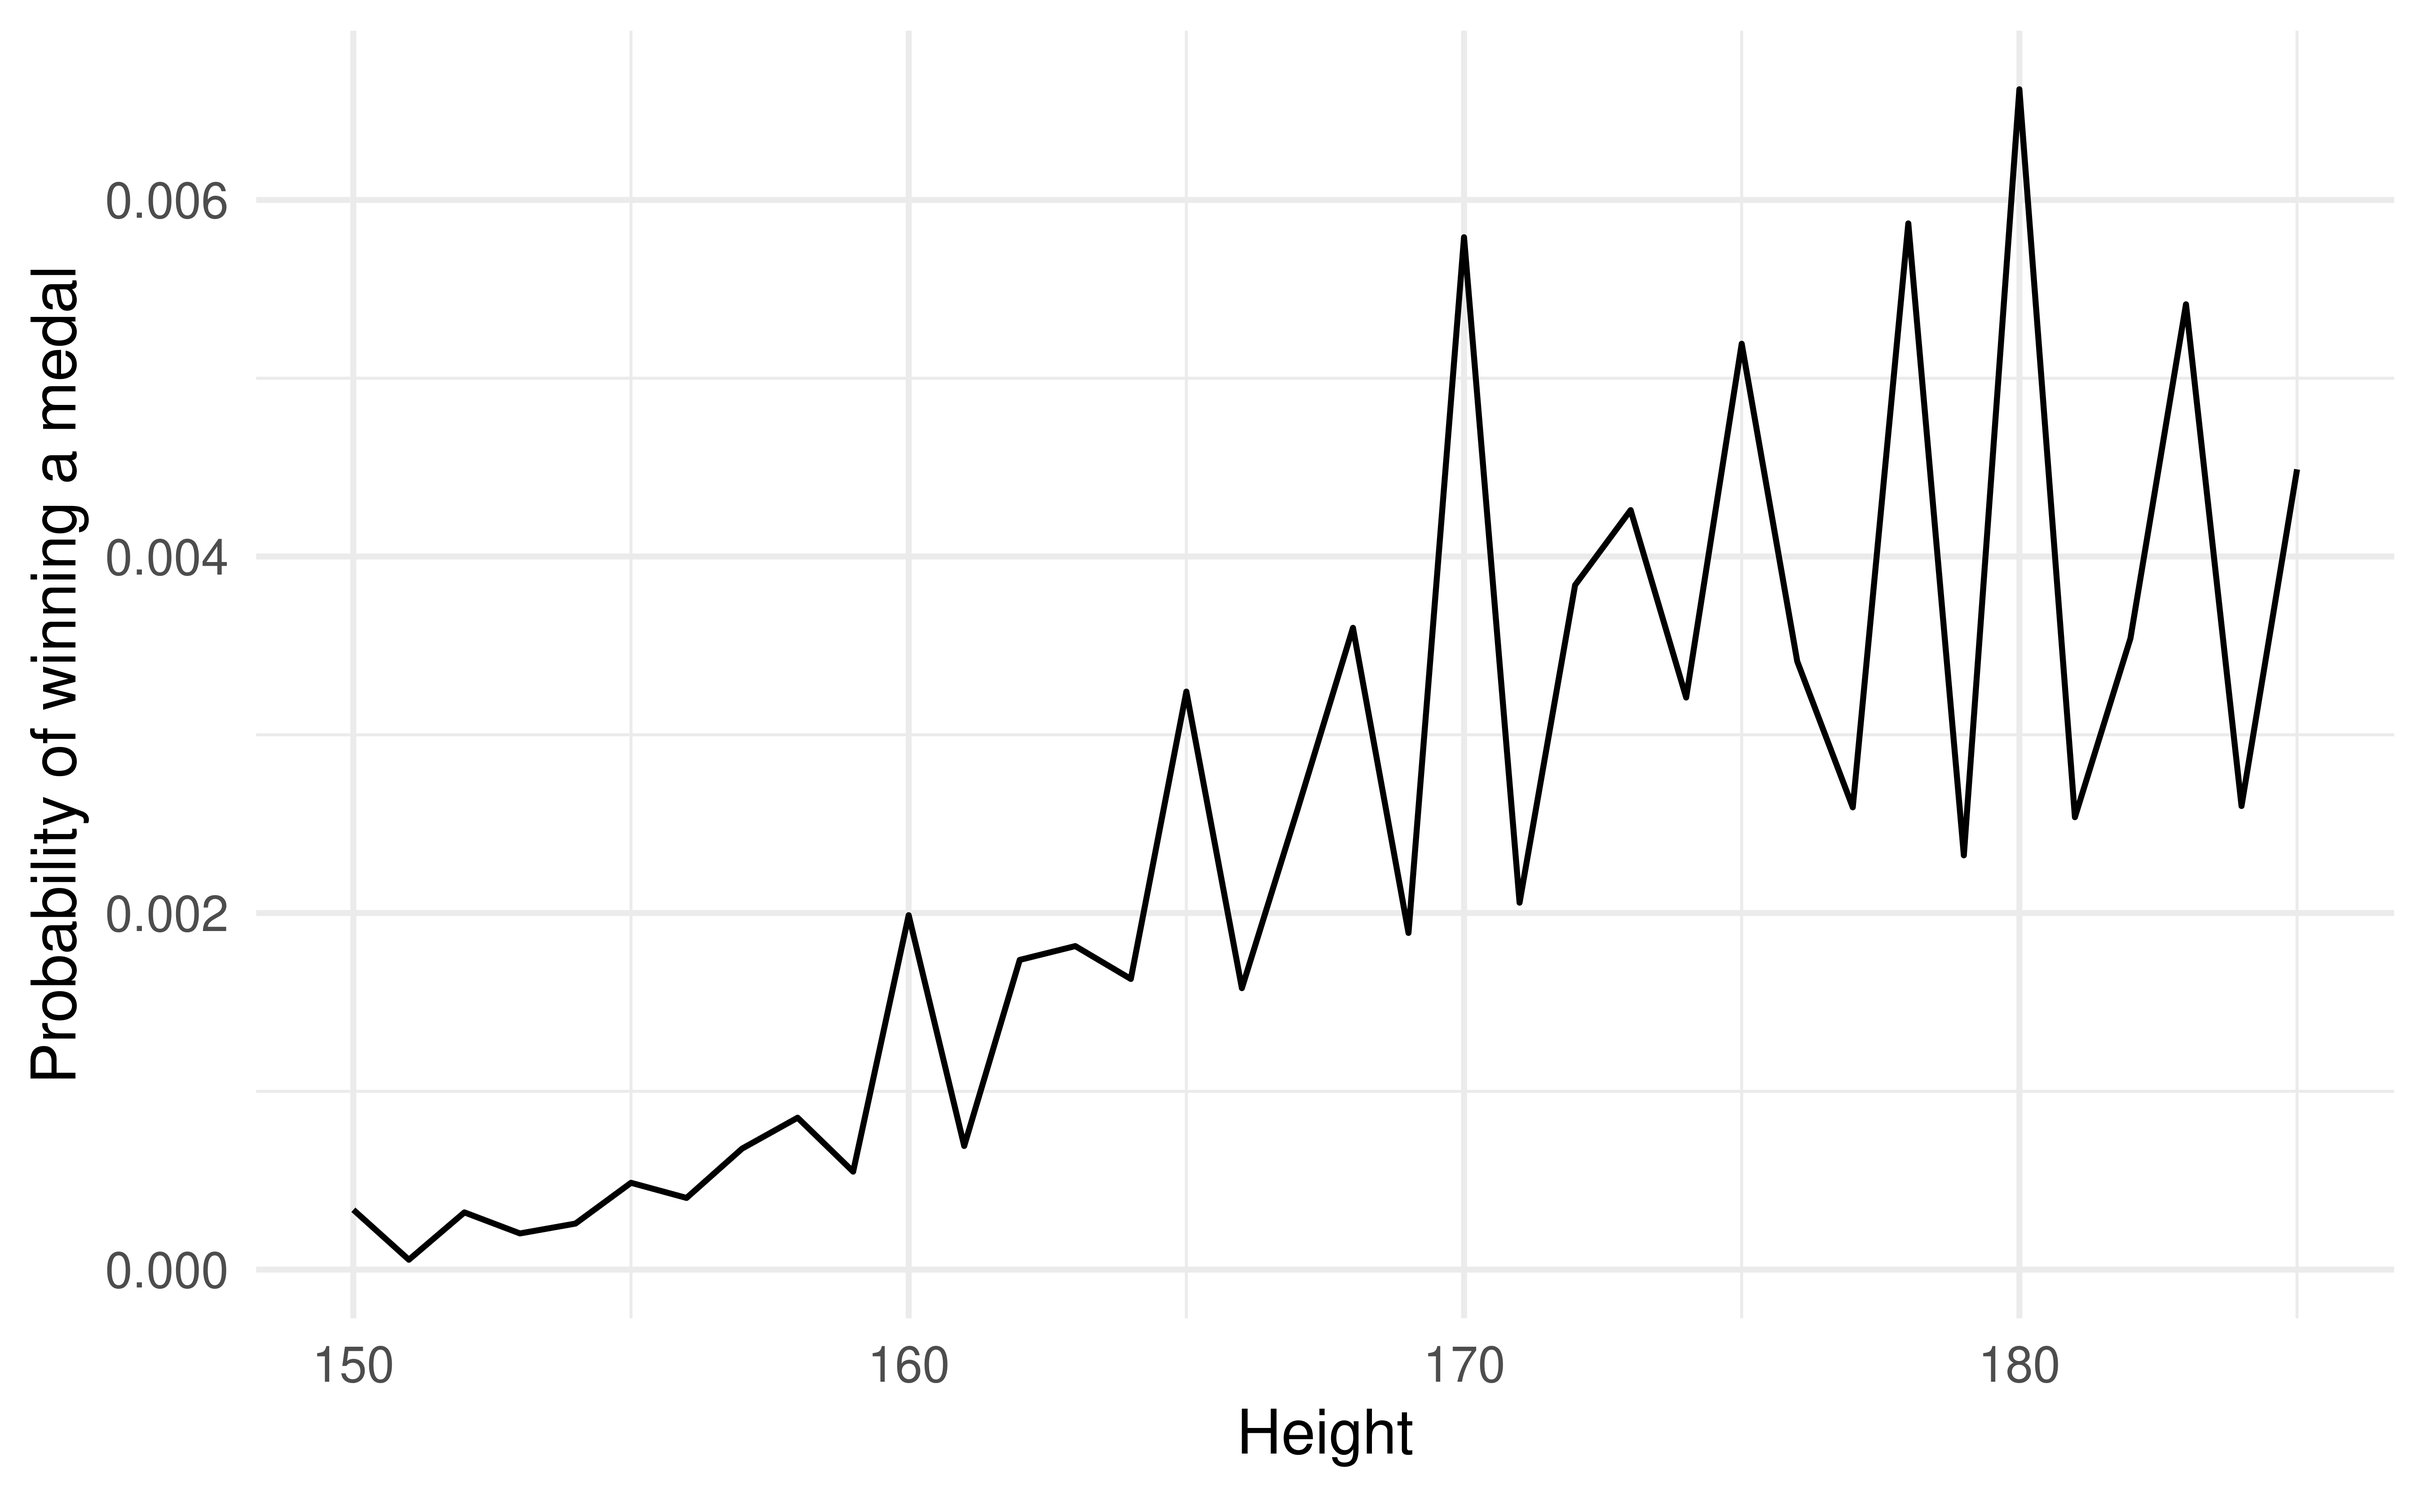
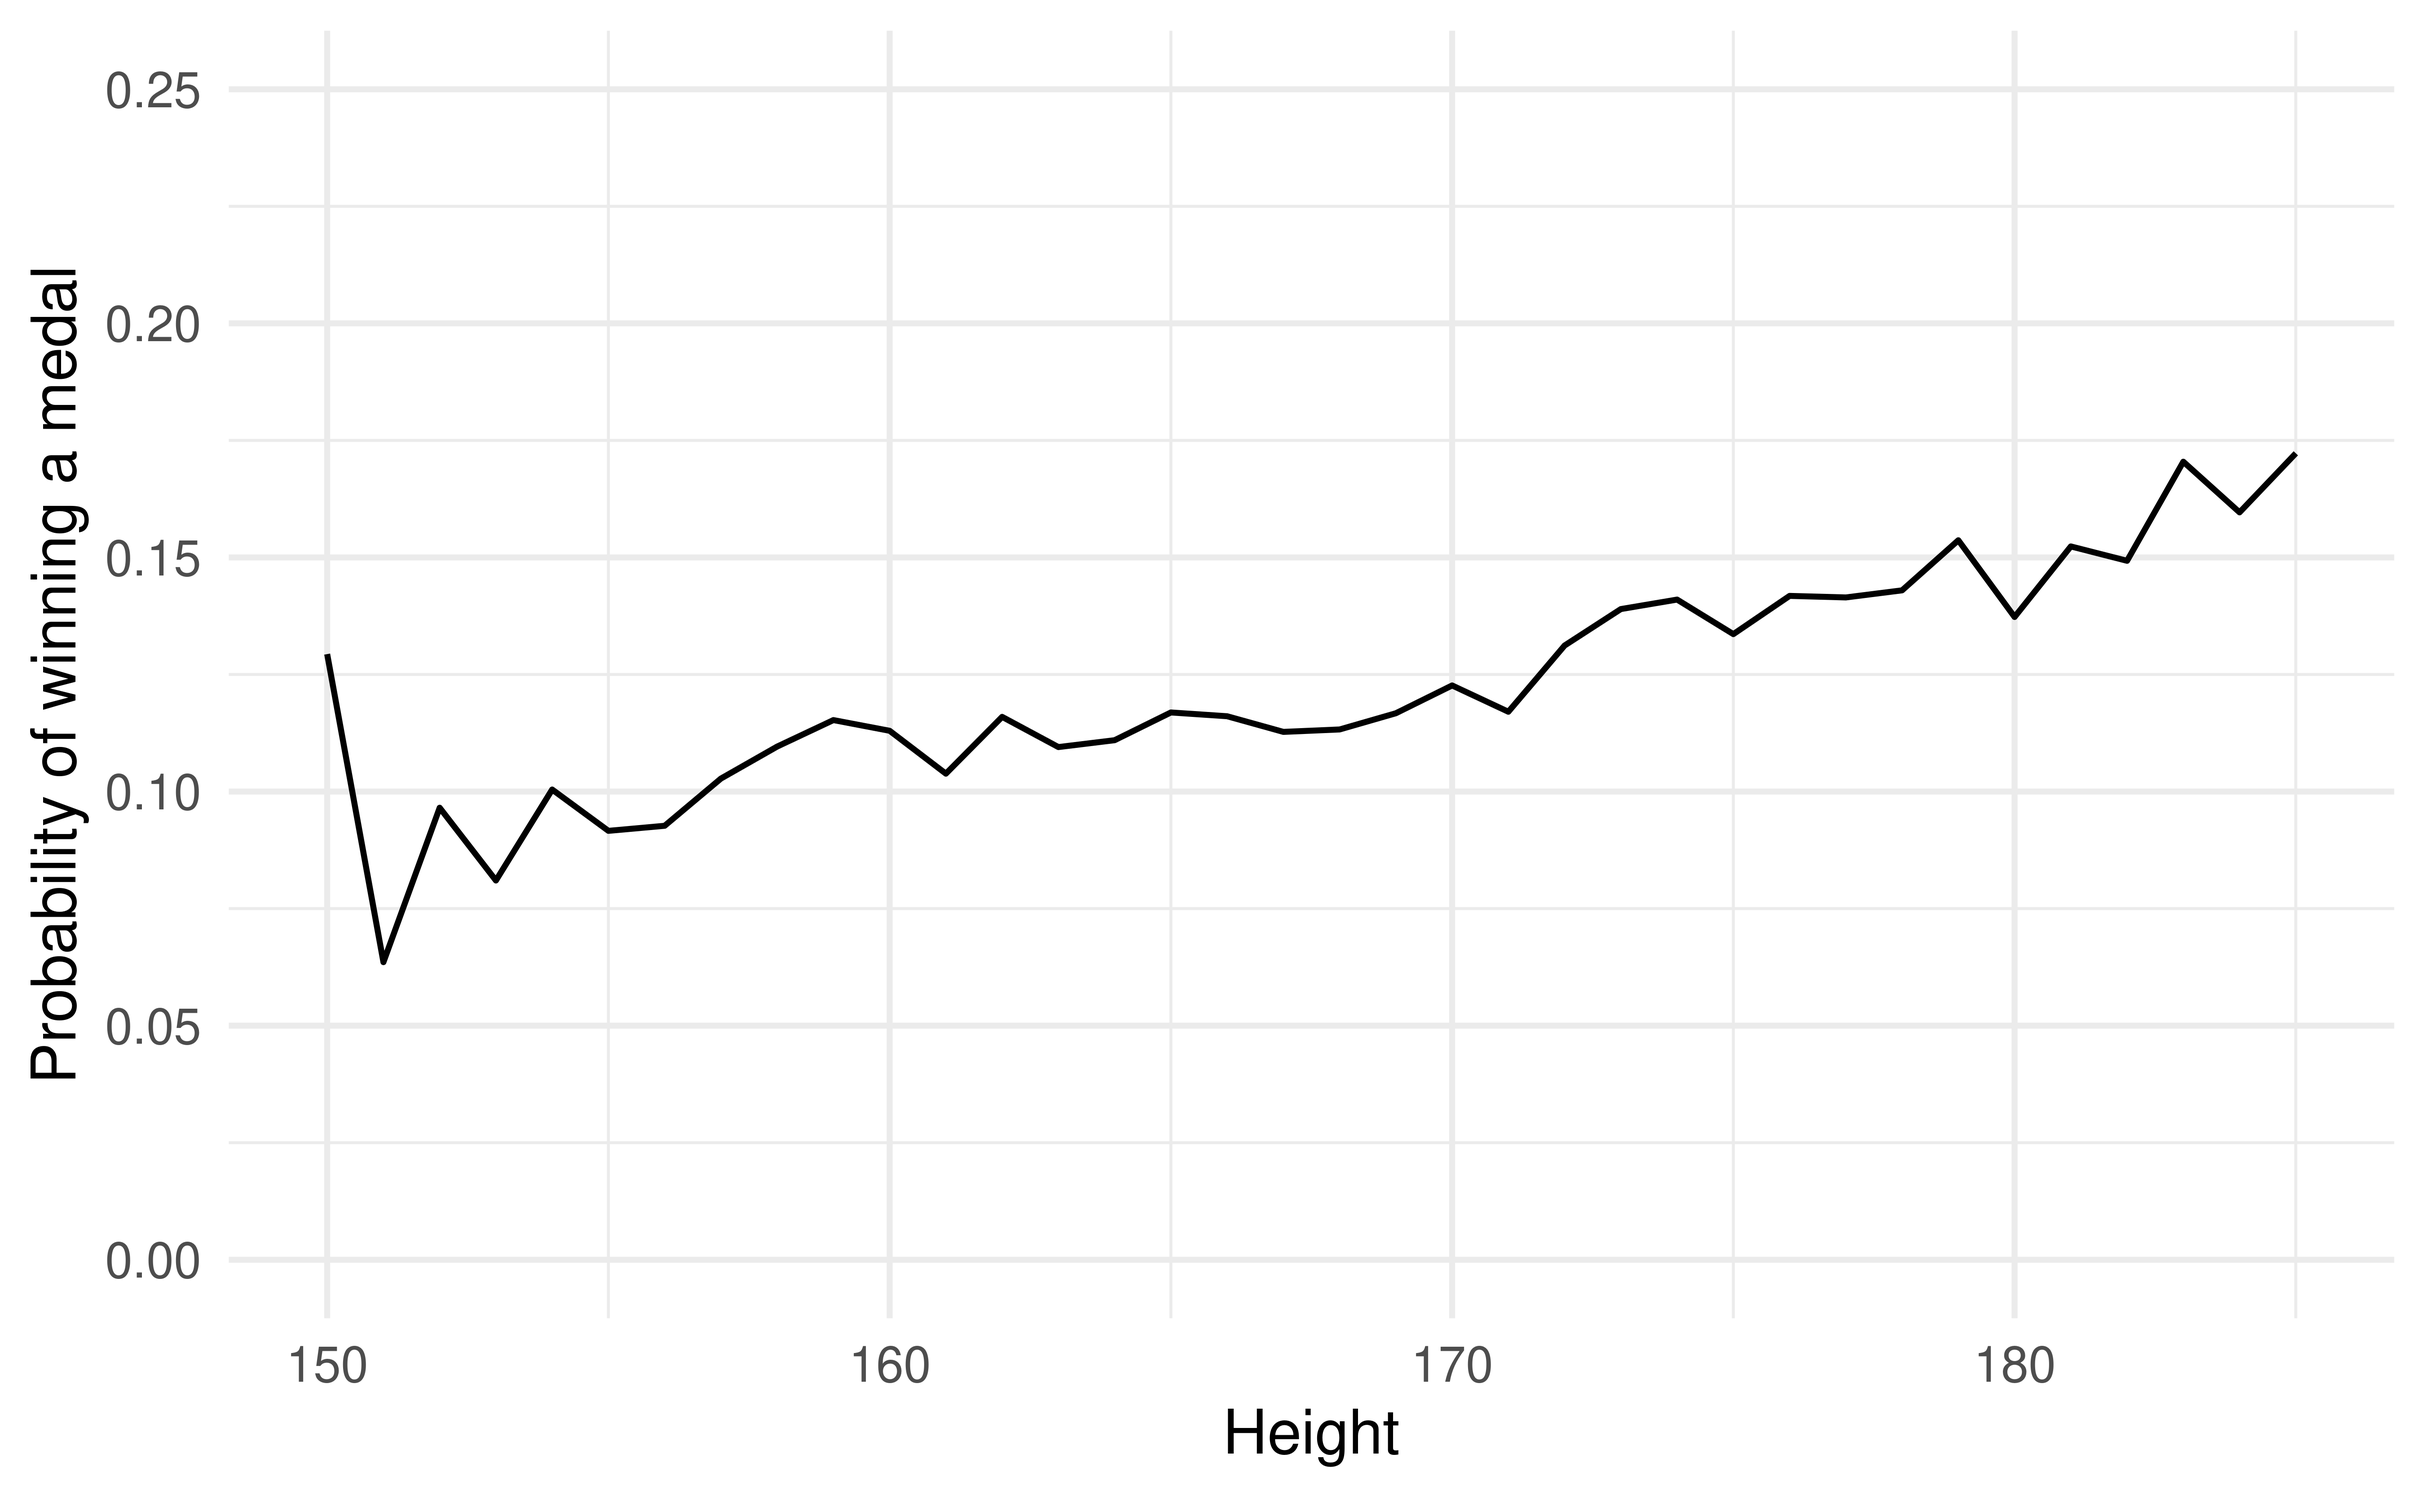
Fixed error on graph possibility vs height

diff --git a/presentation/presentation.html b/presentation/presentation.html
@@ -174,16 +174,15 @@
 <section id="the-modelling-table" class="slide level2">
 <h2>The modelling table</h2>
 <pre><code>## # A tibble: 2 × 5
-##   term         estimate   std.error statistic p.value
-##   &lt;chr&gt;           &lt;dbl&gt;       &lt;dbl&gt;     &lt;dbl&gt;   &lt;dbl&gt;
-## 1 (Intercept) -0.0201   0.0000694       -290.       0
-## 2 height       0.000138 0.000000402      343.       0</code></pre>
-<p><em>The possibility of winning a medal regarding the height is: </em><span class="math display">\[Probability=0.000128Height-0.0184\]</span></p>
+##   term        estimate std.error statistic  p.value
+##   &lt;chr&gt;          &lt;dbl&gt;     &lt;dbl&gt;     &lt;dbl&gt;    &lt;dbl&gt;
+## 1 (Intercept) -0.224    0.0299       -7.52 9.91e- 9
+## 2 height       0.00207  0.000178     11.7  2.02e-13</code></pre>
+<p><em>The possibility of winning a medal regarding the height is: </em><span class="math display">\[Probability=0.00207Height-0.224\]</span></p>
 </section></section>
 <section id="conclusion" class="title-slide slide level1">
 <h1>Conclusion</h1>
-<p><small> So, are younger athletes more likely to have a better performance than older athletes?</p>
-<p>YES.Remind that: </small> <img src="presentation_files/figure-revealjs/probability-vs-age1-1.png" width="70%" style="display: block; margin: auto;" /></p>
+<p><small> So, are younger athletes more likely to have a better performance than older athletes? Yes.Remind that: </small> <img src="presentation_files/figure-revealjs/probability-vs-age1-1.png" width="70%" style="display: block; margin: auto;" /></p>
 </section>
 
 <section id="feeling-adventurous" class="title-slide slide level1">
